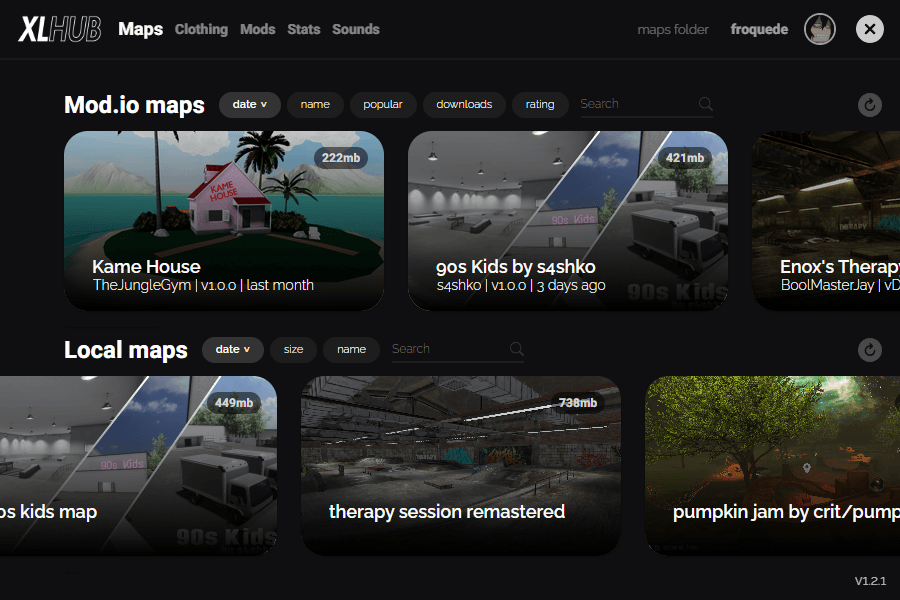
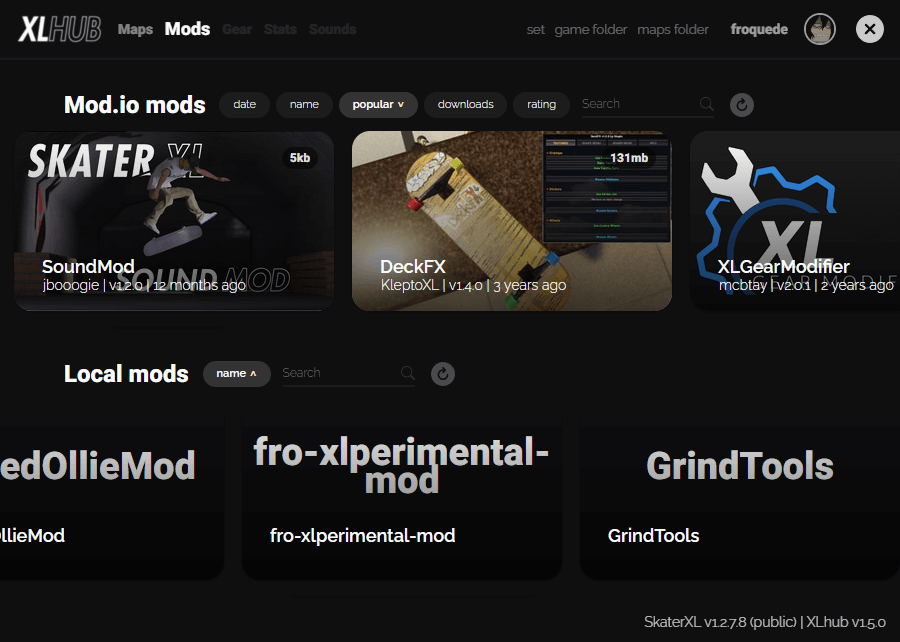
added xlhub page, tweaked notes and warning labels, fixed typos, updated home page

diff --git a/src/routes/+page.svelte b/src/routes/+page.svelte
@@ -6,12 +6,6 @@
 
   <h1>Home</h1>
 
-  <div class="note">
-    <h3 class="text-black mt-0">⚠ Disclaimer</h3>
-    <p>Please note, this site is still a work in progress. New pages and content are being added daily. While not yet complete, the site currently offers all the resources you need to get started with modding Skater XL. We appreciate your patience and support!</p>
-  </div>
-  
-
   <!-- Stylish box with color -->
   <div class="stylish-box">
     <div>
@@ -40,6 +34,34 @@
     <a href="/Maps&Gear">Maps & Gear</a> 
     page.
   </p>
+
+  <h2>XL Hub</h2>
+  <p>
+    Simplify your Skater XL map and mod management with XLHub. This standalone app allows for easy downloading and deleting of maps and script mods from <a href="https://skaterxl.mod.io" target="_blank" rel="noopener noreferrer">skaterxl.mod.io</a>. Its automatic unzipping feature makes map and mod installation extremely straightforward. Learn more by visiting our 
+    <a href="/XLHub">XL Hub</a> 
+    page.
+  </p>
+
+  <h2>Top Skater XL Modding Discord Servers</h2>
+
+  <div class="bg-custom-bluegray-light p-4 rounded-lg mt-2 mb-4">
+    <div class="grid md:grid-cols-2 gap-4">
+      <div>
+        <a href="https://discord.com/invite/uDkSEBKdga" target="_blank" rel="noopener noreferrer">SXL Modding Discord</a>
+        <p class="text-white mb-2">Join the largest community for Skater XL modding enthusiasts.</p> 
+        <a href="https://discord.com/invite/HqYbRxYGCG" target="_blank" rel="noopener noreferrer">XLGM Discord</a>
+        <p class="text-white mb-2">The go-to server for everything related to XL Gear Mod.</p>   
+        <a href="https://discord.com/invite/GmuBn6UzUh" target="_blank" rel="noopener noreferrer">DawgVinci's Discord</a>
+        <p class="text-white mb-2">Discover all of DawgVinci's latest mods.</p>
+      </div>    
+      <div>
+        <a href="https://discord.com/invite/6575k57jbk" target="_blank" rel="noopener noreferrer">Fro's Discord</a>
+        <p class="text-white mb-2">Explore all of the latest mods created by Fro.</p>   
+        <a href="https://discord.com/invite/bYK5w53Jg6" target="_blank" rel="noopener noreferrer">Guru's Discord</a>
+        <p class="text-white mb-2">Access and exclusive collection of Guru's mods and collect with fellow users.</p> 
+      </div>
+    </div>
+  </div>
 
   <!-- <h2>Stats & Settings</h2>
   <p>

diff --git a/src/routes/Public/About/+page.svelte b/src/routes/Public/About/+page.svelte
@@ -12,16 +12,22 @@
 
     <h2>Considerations for the Public Version</h2>
     <p>
-      While Skater XL v1.2.7.8 brings exciting core gameplay improvements, it's important to note that it offers less flexibility in customizing gear and trick styling compared to the alpha version. The absence of mods like the XL Gear Mod means that players have more limited options in tailoring their skater's appearance and gear. Additionally, the scope for customizing trick mechanics and styles is not as extensive as in the alpha version.
+      While Skater XL v1.2.7.8 brings exciting core gameplay changes, it's important to note that it offers less flexibility in customizing gear and trick styling compared to the alpha version. The absence of mods like the XL Gear Mod means that players have more limited options in tailoring their skater's appearance and gear. Additionally, the scope for customizing trick mechanics and styles is not as extensive as in the alpha version. 
     </p>
+
+    <p>However, this simplicity also makes the public version more streamlined and accessible, catering to players who prefer to focus on the core gameplay mechanics without the complexity of additional mods.</p>
 
     <h2>UnityModManager</h2>
     <p>
         For Skater XL version 1.2.7.8: <a href="https://www.nexusmods.com/site/mods/21?tab=files&file_id=2314" target="_blank" rel="noopener noreferrer">UnityModManager v0.27.7</a>
     </p>
+
     <div class="warning">
       <p>
-        <b>⚠ Warning:</b> Other versions of UnityModManager may not work with 1.2.7.8, so make sure to use the one linked above. Always delete old mod managers before installing a new one.
+        <b>⚠ Important:</b> Other versions of UnityModManager may not work with 1.2.7.8, so make sure to use the one linked above. Always delete old mod managers before installing a new one.
+      </p>
+      <p>
+        If you get <b>"method on enter"</b> or <b>"method on start"</b> in UnityModManager, it's because you have the wrong version of UMM.  
       </p>
     </div>
 

diff --git a/src/routes/Maps&Gear/+page.svelte b/src/routes/Maps&Gear/+page.svelte
@@ -5,15 +5,11 @@
 <div class="max-w-4xl mx-auto py-6">
   <h1>Maps and Gear for Skater XL</h1>
 
-
-
-  <div class="p-4 bg-custom-bluegray-light rounded-lg my-4">
-    <h2 class="mt-1">Downloading Custom Maps & Gear</h2>
   <p>
     Visit <a href="https://skaterxl.mod.io" target="_blank" rel="noopener noreferrer">skaterxl.mod.io</a> for a wide range of public maps and gear uploaded by the community. This site is a hub for the latest and most popular Skater XL mods.
   </p>
   <p>You can also find many custom maps and gear options on Discord. Check our links down below to join some popular map and gear servers! </p>
-  </div>
+
 
   <div class="p-4 bg-custom-bluegray-light rounded-lg my-4">
     <h2 class="mt-1">Installing Custom Maps</h2>
@@ -57,15 +53,6 @@
 <div class="flex flex-wrap -mx-2 mt-6">
   <!-- Left Column for Gear and Modder Discord Servers -->
   <div class="w-full md:w-1/2 px-2">
-
-  <!-- Modder Discord Servers Section -->
-  <div class="bg-custom-bluegray-light p-4 rounded-lg mb-4">
-    <h2 class="text-xl font-bold mt-2 mb-3">Modder Discord Servers</h2>
-    <p>Join the Modder Discords to connect directly with the creative minds behind your favorite Skater XL mods.</p>
-    <p><a href="https://discord.com/invite/GmuBn6UzUh" target="_blank" rel="noopener noreferrer">DawgVinci's Discord</a></p>
-    <p><a href="https://discord.com/invite/6575k57jbk" target="_blank" rel="noopener noreferrer">Fro's Discord</a></p>
-    <p><a href="https://discord.com/invite/bYK5w53Jg6" target="_blank" rel="noopener noreferrer">Guru's Discord</a></p>
-  </div>
 
 <!-- Gear Discord Servers Section -->
 <div class="bg-custom-bluegray-light p-4 rounded-lg mb-4">

diff --git a/src/routes/XLHub/+page.svelte b/src/routes/XLHub/+page.svelte
@@ -1,0 +1,30 @@
+<script>
+  // Add any page-specific JavaScript here
+</script>
+
+<div class="max-w-4xl mx-auto py-6">
+  <h1>XL Hub</h1>
+
+  <p>
+    Introducing <a href="https://mod.io/g/skaterxl/m/xlhub" target="_blank" rel="noopener noreferrer">XL Hub</a> by Fro, the ultimate tool for browsing, downloading, and managing your Skater XL maps and mods. With a user-friendly interface and no need for UnityModManager, XL Hub makes modding easier than ever before.
+  </p>
+
+  <img src="/XLHub.png" alt="XL Hub" class="w-full h-auto"/>
+
+  <h2>Getting Started</h2>
+  <ol>
+    <li>Open XL Hub and log in with your mod.io account to access a wide range of maps and mods.</li>
+    <li>Set the <strong>'Maps Folder'</strong> to the correct location where you want to store your downloaded maps. Typically, this is <strong><code>Documents/SkaterXL/Maps</code></strong>.</li>
+    <li>Set the <strong>'Game Folder'</strong> to where your Skater XL game is installed. The common path is <strong><code>Steam/steamapps/common/SkaterXL</code></strong>, but this may vary based on your installation.</li>
+  </ol>
+  <div class="note">
+    <p><b>Note: </b>The provided paths, especially for the game folder, are common defaults. Please adjust according to your actual installation location for proper functionality.</p>
+  </div>
+  <!-- More content here if needed -->
+</div>
+
+<img src="/XLHub2.png" alt="XL Hub Setup" class="w-full h-auto"/>
+
+<style>
+  /* Add any page-specific styles here */
+</style>

diff --git a/src/routes/GettingStarted/+page.svelte b/src/routes/GettingStarted/+page.svelte
@@ -58,7 +58,7 @@
       <li><strong>Downloading and Installing Mods:</strong> To acquire mods, navigate through our sidebar which grants convenient access to a comprehensive list of mods compatible with your game. Simply drag and drop the downloaded .zip mod files into the "Mods" tab of UnityModManager for installation.</li>
       <img src="UMM3.png" alt="UnityModManager Setup" class="my-4" />
       <div class="note">
-        <p><strong>Tip:</strong> In UnityModManager, "Status: OK" or "Status: Update to X.X.X" indicates a mod is installed. Avoid updating mods directly from UnityModManager, as changing versions may render them incompatible. For manual installation or uninstallation, right-click each mod.</p>
+        <p><strong>Note:</strong> In UnityModManager, <b>"Status: OK"</b> or <b>"Status: Update to X.X.X"</b> indicates a mod is installed. Avoid updating mods directly from UnityModManager, as changing versions may render them incompatible. For manual installation or uninstallation, right-click each mod.</p>
       </div>
       <li><strong>Launch Game:</strong> Start Skater XL. UnityModManager will open, indicating mod status. A green icon suggests the mod is working, while a red icon indicates issues.</li>
   </ol>

diff --git a/src/routes/Alpha/About/+page.svelte b/src/routes/Alpha/About/+page.svelte
@@ -19,9 +19,13 @@
     <p>
       For Skater XL version 1.2.2.8: <a href="https://www.nexusmods.com/site/mods/21?tab=files&file_id=2224" target="_blank" rel="noopener noreferrer">UnityModManager v0.27.4</a>
     </p>
+
     <div class="warning">
       <p>
-        <b>⚠ Warning:</b> Other versions of UnityModManager may not work with 1.2.7.8, so make sure to use the one linked above. Always delete old mod managers before installing a new one.
+        <b>⚠ Important:</b> Other versions of UnityModManager may not work with 1.2.2.8, so make sure to use the one linked above. Always delete old mod managers before installing a new one.
+      </p>
+      <p>
+        If you get <b>"method on enter"</b> or <b>"method on start"</b> in UnityModManager, it's because you have the wrong version of UMM.  
       </p>
     </div>
 
@@ -49,7 +53,7 @@
   
   
 
-  <img src="/Alpha2.jpg" alt="Danny Headshot" class="w-full h-auto"/>
+  <img src="/Home2.jpg" alt="Danny Headshot" class="w-full h-auto"/>
 
     <!-- More content here if needed -->
   </div>

diff --git a/src/lib/Header.svelte b/src/lib/Header.svelte
@@ -6,7 +6,8 @@
     <a href="/GettingStarted" sveltekit-prefetch class="font-bold text-white mx-2 sm:mx-6">Getting Started</a>
     <a href="/Maps&Gear" sveltekit-prefetch class="font-bold text-white mx-2 sm:mx-6">Maps & Gear</a>
     <!-- <a href="/Stats&Settings" sveltekit-prefetch class="font-bold text-white mx-2 sm:mx-6">Stats & Settings</a> -->
-    <a href="/News" sveltekit-prefetch class="font-bold text-white mx-2 sm:mx-6">News</a>
+    <a href="/XLHub" sveltekit-prefetch class="font-bold text-white mx-2 sm:mx-6">XL Hub</a>
+    <!-- <a href="/News" sveltekit-prefetch class="font-bold text-white mx-2 sm:mx-6">News</a> -->
     <!-- <a href="/Links" sveltekit-prefetch class="font-bold text-white mx-2 sm:mx-6">Links</a> -->
   </nav>
 

diff --git a/src/routes/Public/SoundMod/+page.svelte b/src/routes/Public/SoundMod/+page.svelte
@@ -35,7 +35,7 @@
   </p>
   <div class="note">
       <p><b>Note: </b>SoundMod version 1.2.0 does not include any pre-installed sounds. You'll need to download and manually install a soundpack. Place the soundpack files into the following directory: </p> 
-      <p><code>Steam/steamapps/common/SkaterXL/Mods/XLSoundMod/Sounds</code></p>
+      <p><code><b>Steam/steamapps/common/SkaterXL/Mods/XLSoundMod/Sounds</b></code></p>
   </div> 
   <p>
       For a comprehensive guide on installing soundpacks and to explore a variety of community-created soundpacks, please visit our <a href="/Soundpacks" class="text-blue-600 hover:underline">Soundpacks page</a>.
